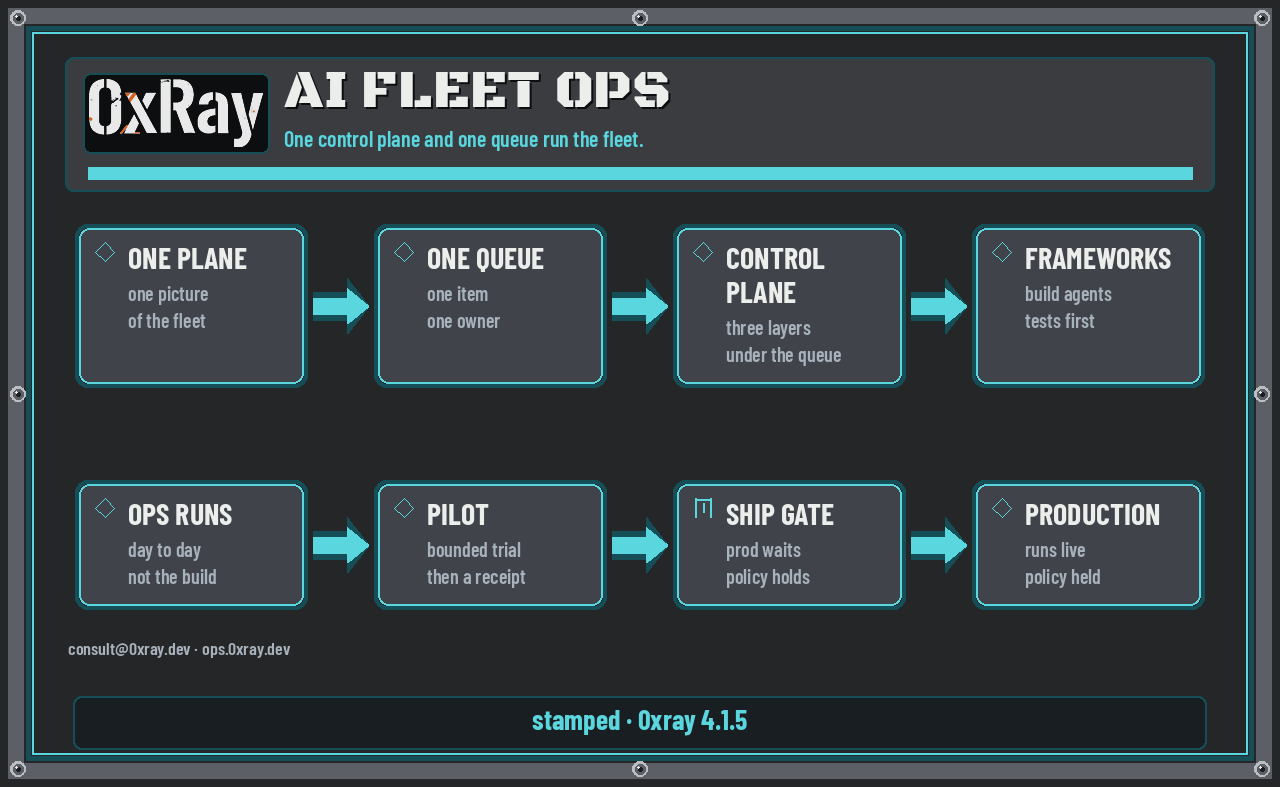
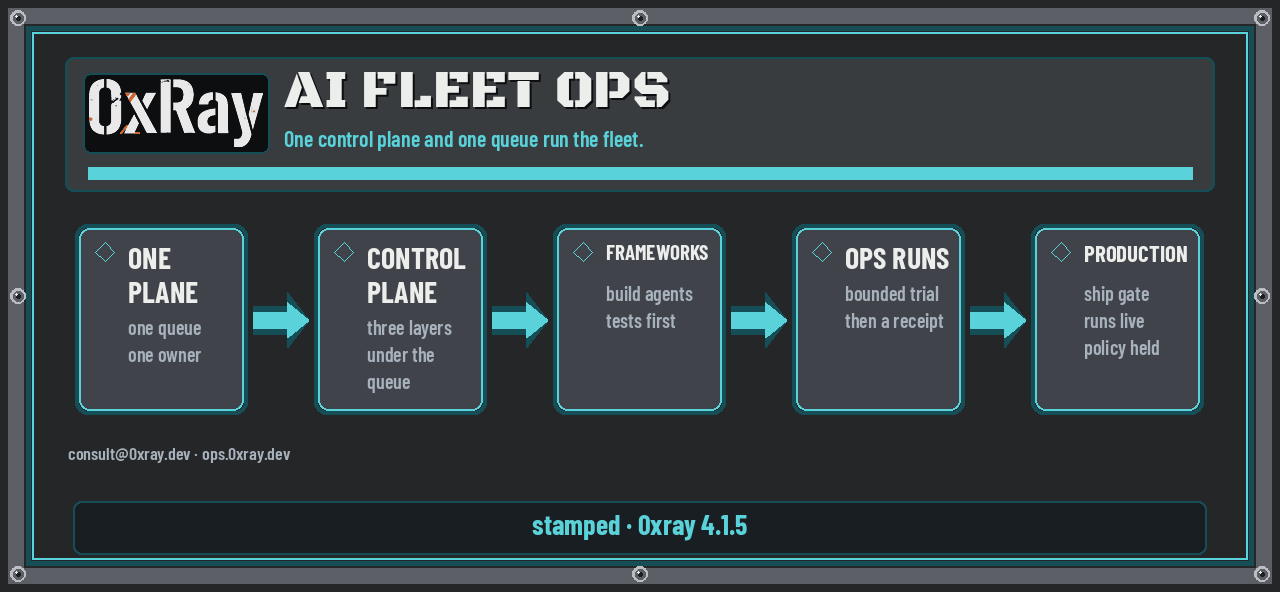
fix: one left-to-right spine for AI Fleet Ops
The second stage row is gone. One plane through production sit on a single rail, and the kit PNG matches that row.

diff --git a/docs-site/docs/plates/ai-fleet-ops.md b/docs-site/docs/plates/ai-fleet-ops.md
@@ -9,19 +9,14 @@ plate_type: domain model
 One control plane and one queue run the fleet.
 
 ```
-┌──────────────────┐     ┌──────────────────┐     ┌──────────────────┐     ┌──────────────────┐
-│ONE PLANE         │ ─── │ONE QUEUE         │ ─── │CONTROL PLANE     │ ─── │FRAMEWORKS        │
-│one picture       │     │one item          │     │three layers      │     │build agents      │
-│of the fleet      │     │one owner         │     │under the queue   │     │tests first       │
-└──────────────────┘     └──────────────────┘     └──────────────────┘     └──────────────────┘
-                                                                                               
-┌──────────────────┐     ┌──────────────────┐     ┌──────────────────┐     ┌──────────────────┐
-│OPS RUNS          │ ─── │PILOT             │ ─── │SHIP GATE         │ ─── │PRODUCTION        │
-│day to day        │     │bounded trial     │     │prod waits        │     │runs live         │
-│not the build     │     │then a receipt    │     │policy holds      │     │policy held       │
-└──────────────────┘     └──────────────────┘     └──────────────────┘     └──────────────────┘
-                                                                                               
-consult@0xray.dev · ops.0xray.dev                                                              
+┌────────────────┐     ┌────────────────┐     ┌────────────────┐     ┌────────────────┐     ┌────────────────┐
+│ONE PLANE       │ ─── │CONTROL PLANE   │ ─── │FRAMEWORKS      │ ─── │OPS RUNS        │ ─── │PRODUCTION      │
+│one queue       │     │three layers    │     │build agents    │     │bounded trial   │     │ship gate       │
+│one owner       │     │under the queue │     │tests first     │     │then a receipt  │     │runs live       │
+│                │     │                │     │                │     │                │     │policy held     │
+└────────────────┘     └────────────────┘     └────────────────┘     └────────────────┘     └────────────────┘
+                                                                                                              
+consult@0xray.dev · ops.0xray.dev                                                                             
 ```
 
 Work enters one picture and one queue. Each item is one issue or pull request, on its own branch, and it does not sit on a second pile (`grok-bot/OP-PROC.md:6`). Only one pass of that queue is active at a time (`grok-bot/OP-PROC.md:20`). The queue moves from a source, to an owner, to an artifact, to evidence, to the next owner (`grok-bot/ops/OPS-SPEC.md:26`).

diff --git a/.agents/skills/ai-fleet-ops/SKILL.md b/.agents/skills/ai-fleet-ops/SKILL.md
@@ -9,7 +9,7 @@ description: >
 
 The plate is `docs-site/docs/plates/ai-fleet-ops.md`. The X copy is `docs-site/static/plates/x/ai-fleet-ops.png`.
 
-1. Read the plate left to right, then the second row left to right. One plane, one queue, control plane, frameworks, ops runs, pilot, ship gate, production.
+1. Read the plate left to right on one row. One plane and one queue, control plane, frameworks, ops runs, then production. Pilot, the ship gate, and policy are on those last cards.
 2. Who does which job is `docs-site/docs/plates/fleet.md`. Do not copy that roster onto this plate.
 3. The public ask is consult@0xray.dev. The ops site is https://ops.0xray.dev.
 4. The stamp line uses the version already in `package.json`. Do not bump the package.
